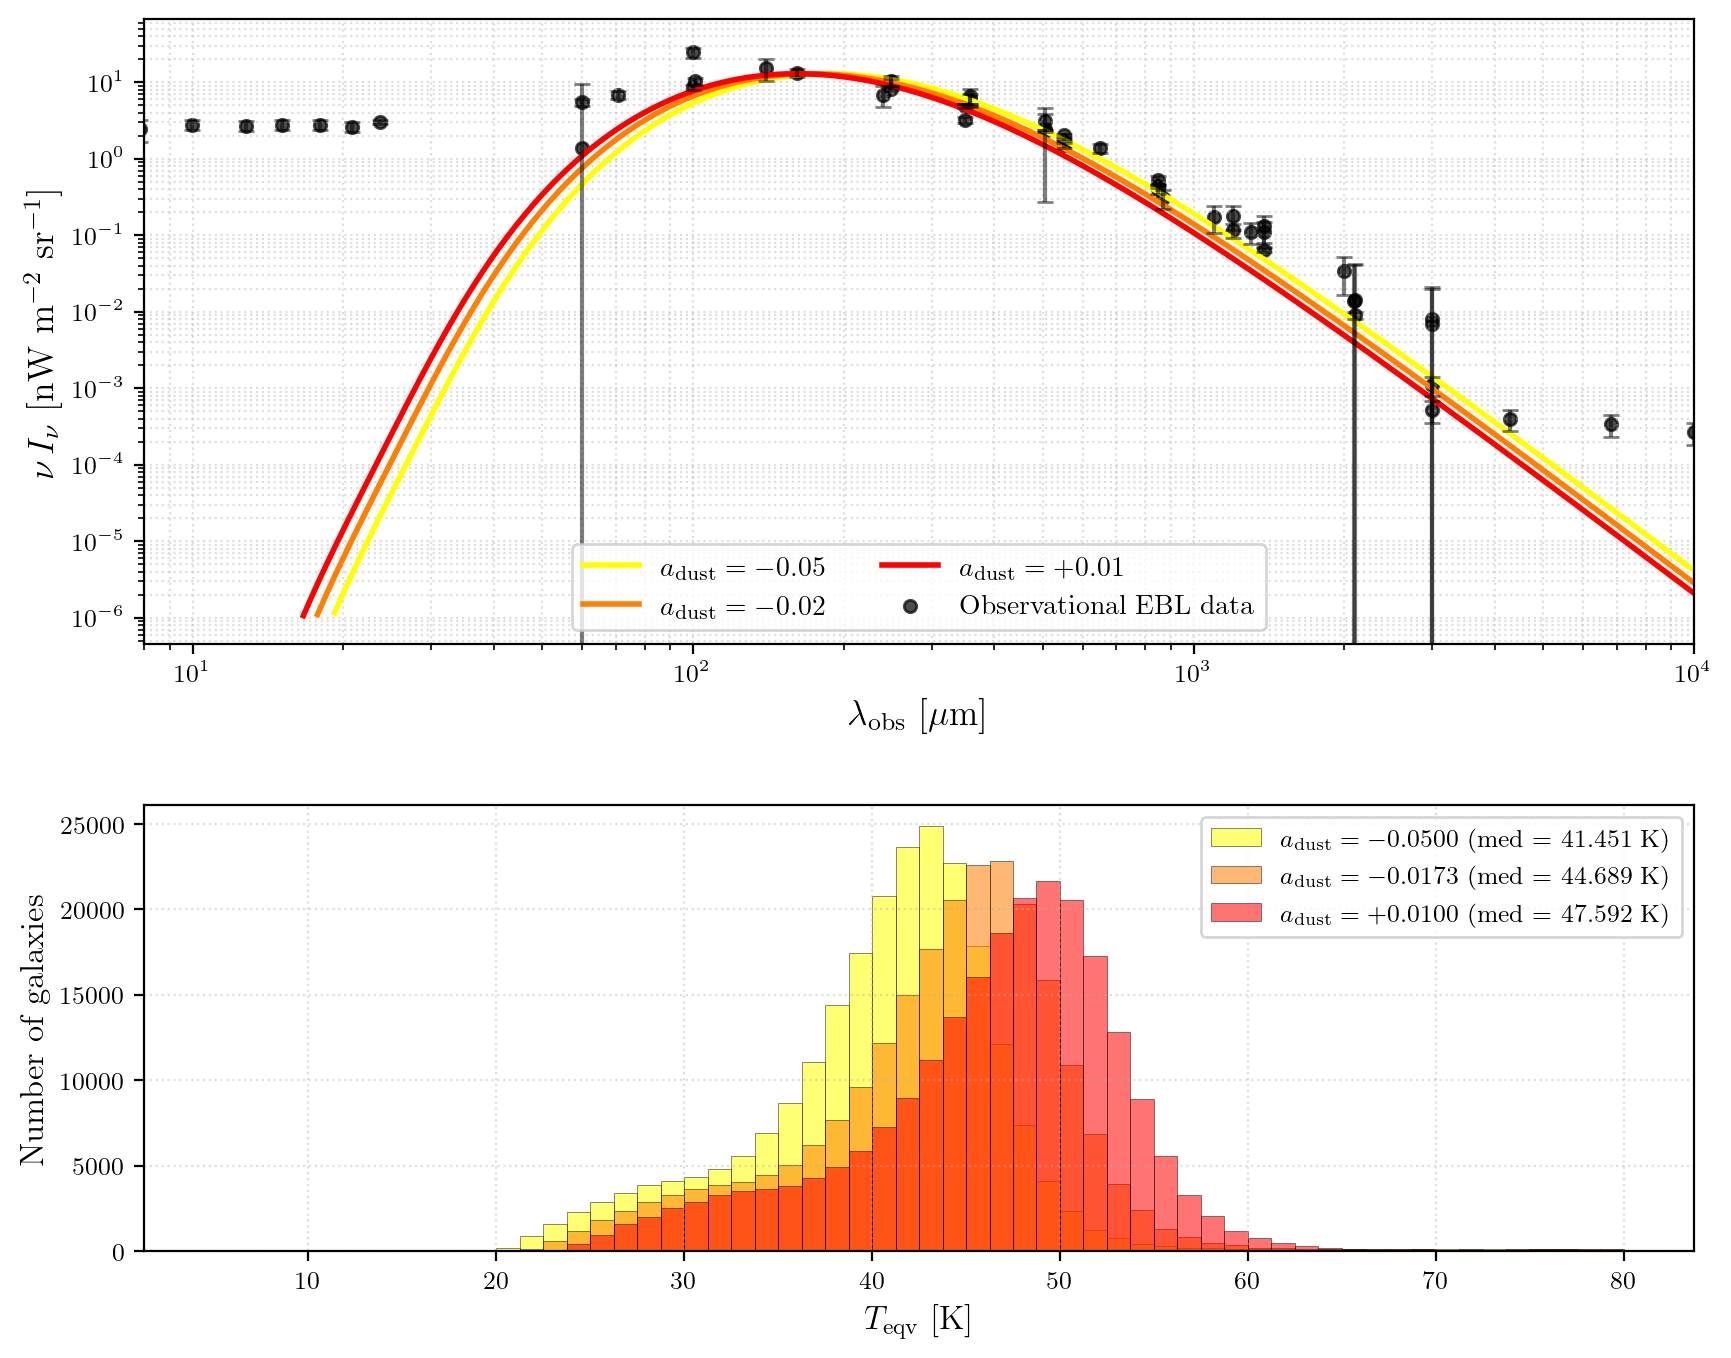
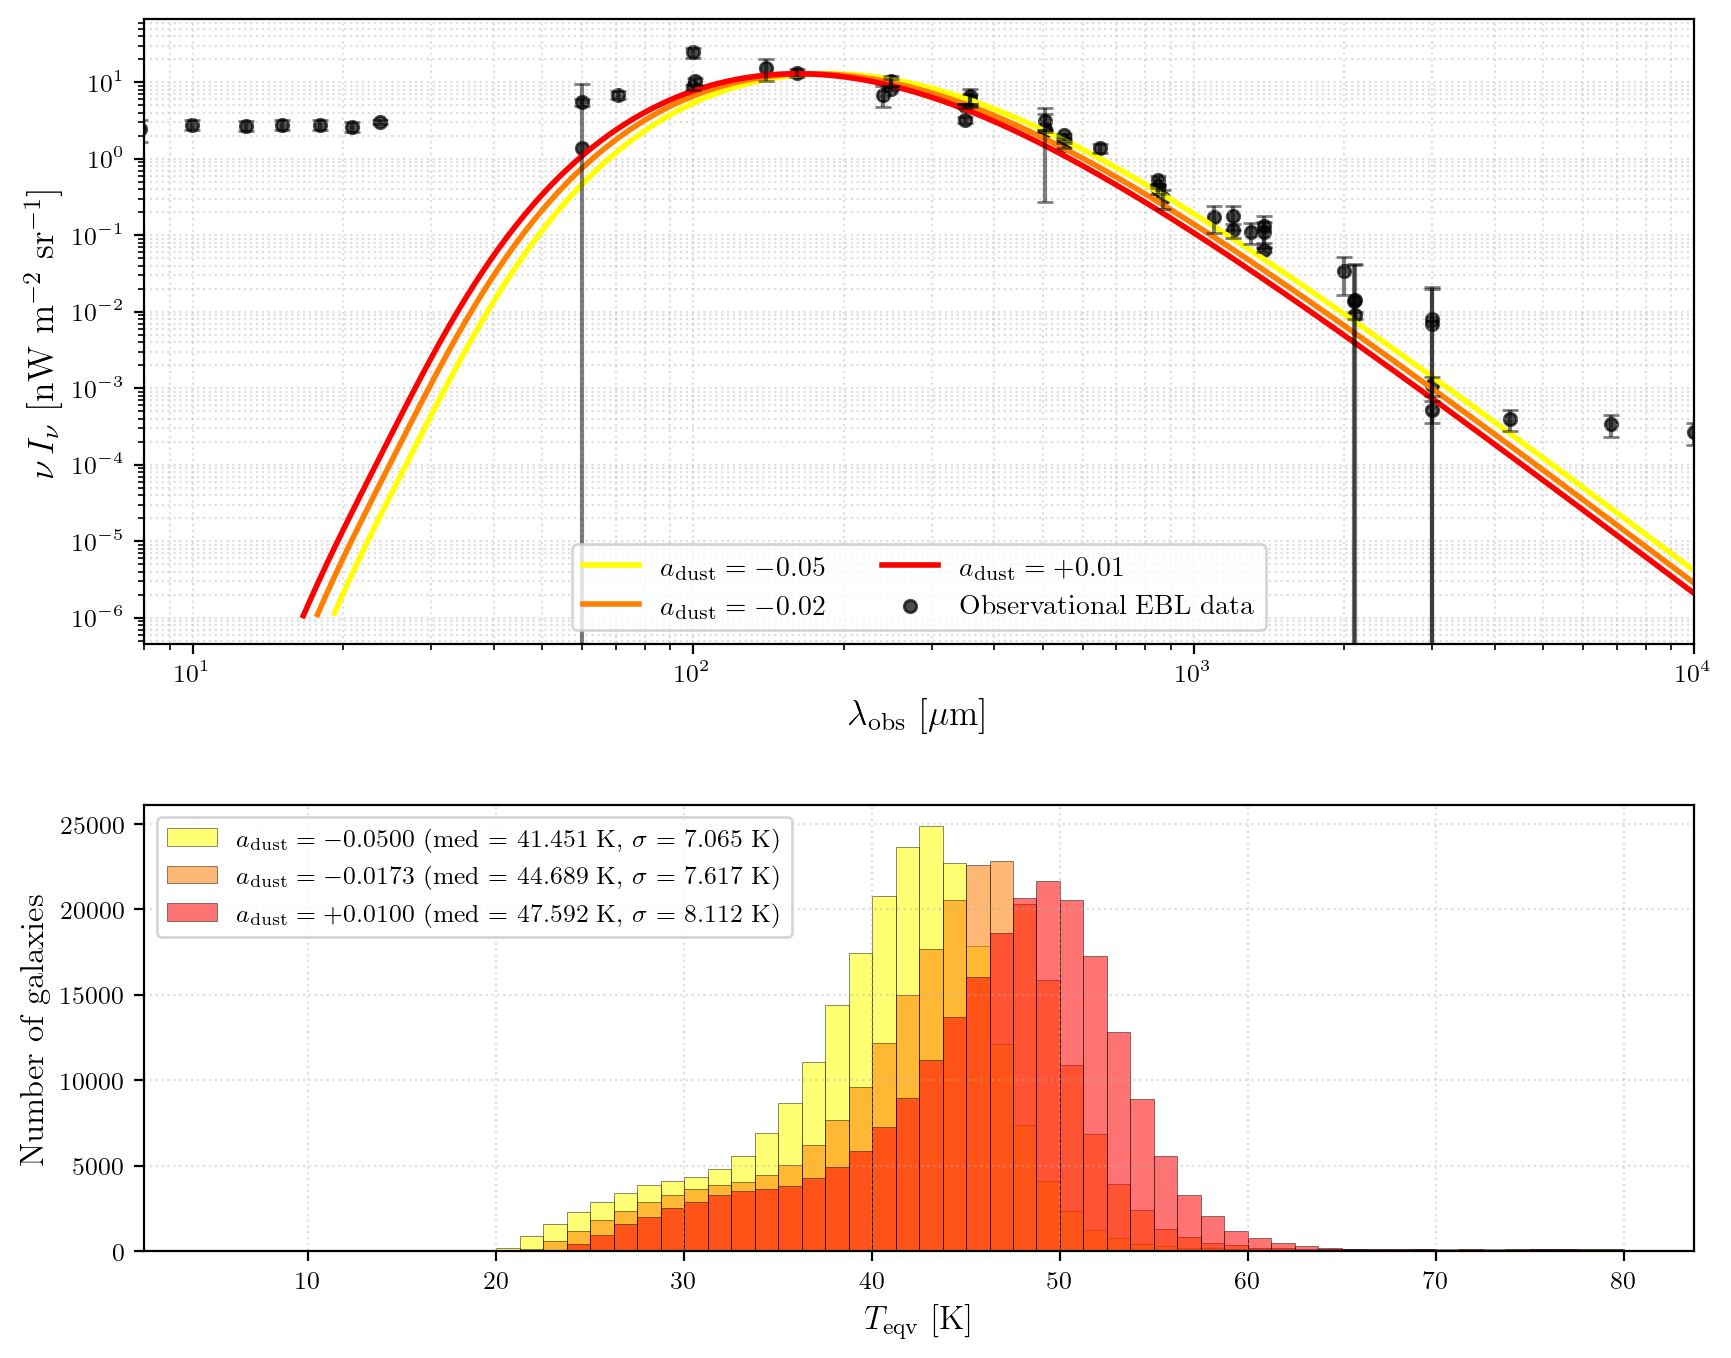
standard deviation on temp diagnostics

diff --git a/scripts/run_diagnostic.py b/scripts/run_diagnostic.py
@@ -142,10 +142,15 @@ def main():
         temps, _ = dust_temp_results[a_val]
         if len(temps) == 0:
             continue
+        median_temp = np.nanmedian(temps)
+        std_temp = np.nanstd(temps)
         ax_hist.hist(temps, bins=60, range=(5, 80), alpha=0.55,
                      color=col, edgecolor='k', linewidth=0.3,
-                     label=f'$a_{{\\rm dust}} = {a_val:+.4f}$'
-                           f'  (med = {np.nanmedian(temps):.3f} K)')
+                    label=(
+                        rf'$a_{{\rm dust}} = {a_val:+.4f}$'
+                        f'  (med = {median_temp:.3f} K, '
+                        rf'$\sigma$ = {std_temp:.3f} K)'
+                    ))
     ax_hist.set_xlabel(r'$T_{\rm eqv}$ [K]', fontsize=12)
     ax_hist.set_ylabel('Number of galaxies', fontsize=12)
     ax_hist.legend(fontsize=9)
